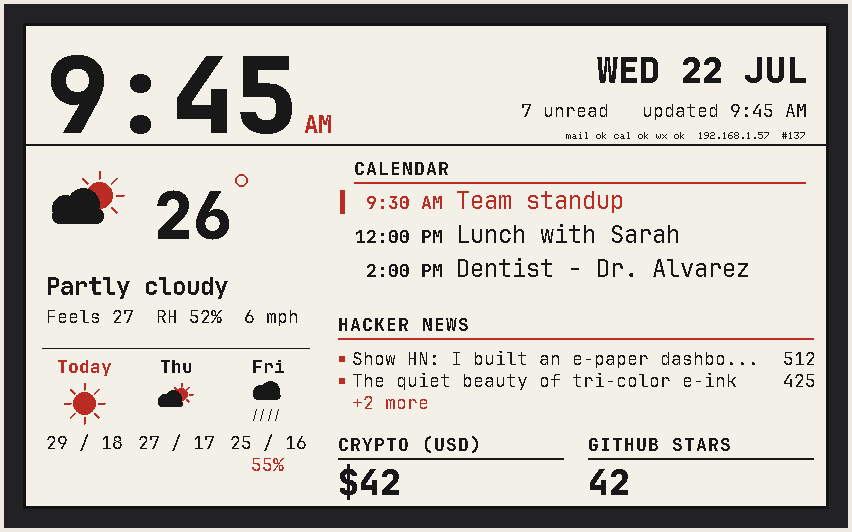
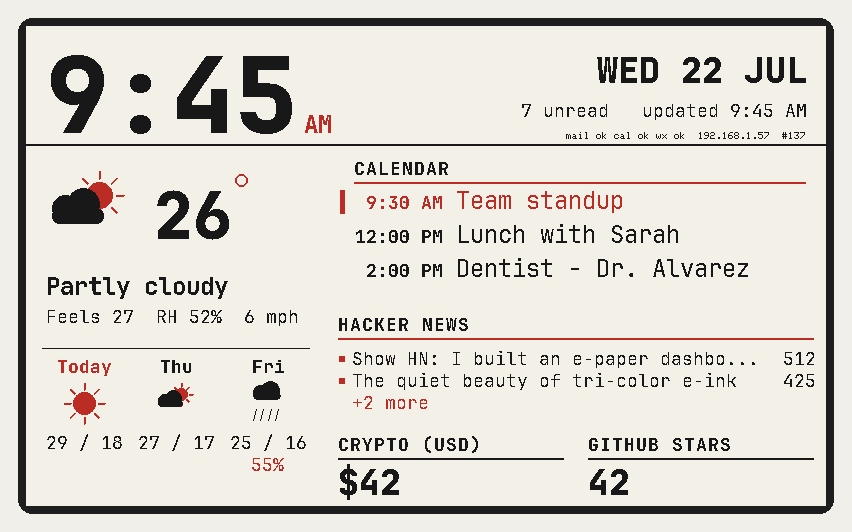
Frame the Riposte shot with the one framing tool
PR #5 and PR #6 were open at the same time and each added a bezel
script, tools/frame_shot.py and tools/frame_preview.py. One is enough
and #5 merged first, so the Riposte shot is reframed with frame_shot.py
and the duplicate goes. Both README shots now share one frame.

Changed region(s): [[0.0, 0.0, 1.0, 0.9925]]

diff --git a/CHANGELOG.md b/CHANGELOG.md
@@ -14,8 +14,7 @@ on `main`.
   its faces instead of naming them, so a third look is one more table. The
   classic look is byte-identical to before (all five preview scenes compared).
   `tools/make_riposte_fonts.py` generates the seven faces (~21 KB of flash)
-  through a `gfx_font()` now shared with `make_gfx_font.py`;
-  `tools/frame_preview.py` puts a preview scene in the docs bezel.
+  through a `gfx_font()` now shared with `make_gfx_font.py`.
   Nine unit checks, `preview_riposte` scene, `docs/dashboard_riposte.png`.
 
 ### Fixed
